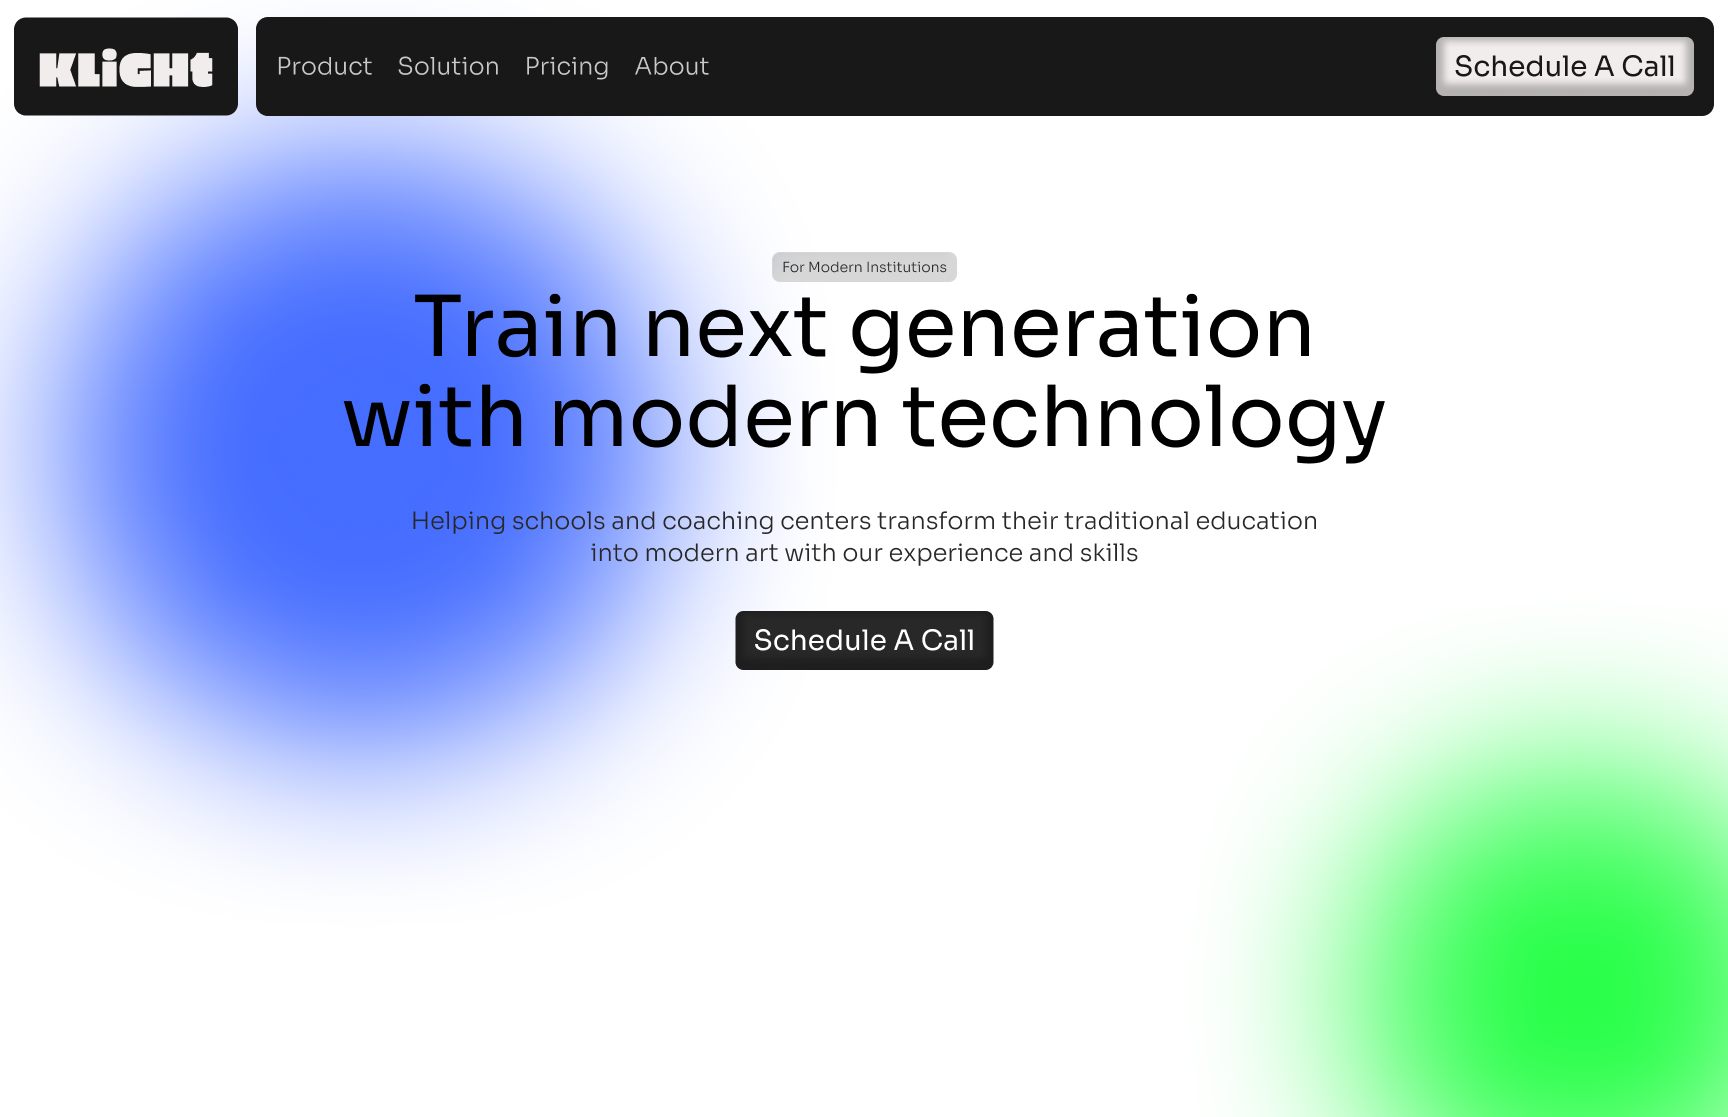
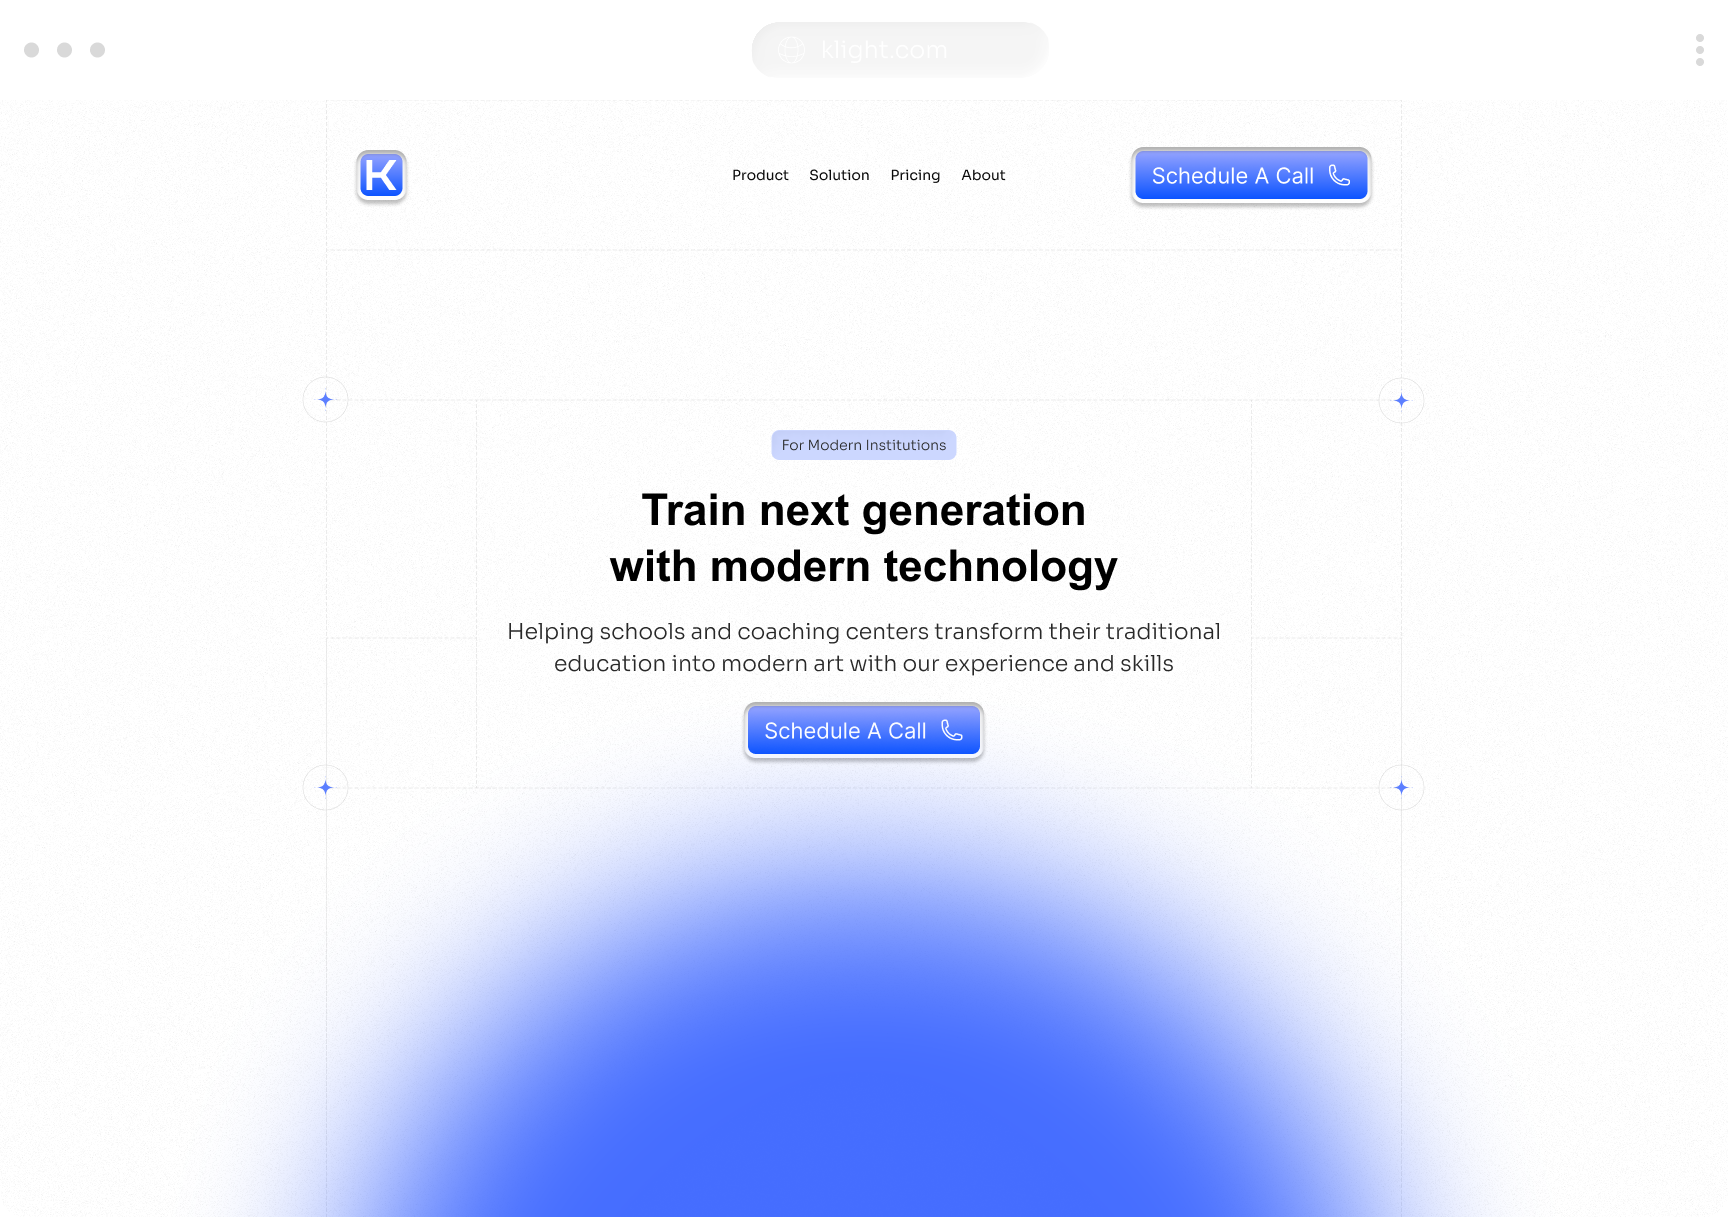
19

diff --git a/app/components/Services2.tsx b/app/components/Services2.tsx
@@ -1,0 +1,103 @@
+"use client";
+
+import React from "react";
+import Image from "next/image";
+
+// ==========================================================================
+// TYPESCRIPT INTERFACES
+// ==========================================================================
+interface ServiceCardProps {
+  children: React.ReactNode; // ReactNode covers elements, strings, numbers, fragments, etc.
+  title: string;
+}
+
+// ==========================================================================
+// REUSABLE SERVICE CARD COMPONENT
+// ==========================================================================
+const ServiceCard = ({ children, title }: ServiceCardProps) => {
+  return (
+    <div className="relative w-full mx-auto max-w-[400px] aspect-[3/4] rounded-[24px] bg-[#303030] flex flex-col items-center justify-between group cursor-pointer border border-[#404040] hover:border-neutral-500 transition-colors duration-300 overflow-hidden px-6 pt-12 pb-10">
+
+      {/* BACKGROUND: DOTTED CIRCLES (ARCS) */}
+      <div className="absolute inset-0 w-full h-full pointer-events-none">
+        <div className="absolute top-[-20%] left-[-20%] w-[100%] h-[100%] rounded-full border-2 border-dashed border-[#505050]"></div>
+        <div className="absolute bottom-[-20%] right-[-20%] w-[100%] h-[100%] rounded-full border-2 border-dashed border-[#505050]"></div>
+      </div>
+
+      {/* CENTRAL ICON CONSTRUCTION */}
+      <div className="relative flex-1 w-full flex items-center justify-center">
+        {/* The 10-sided gear shape background - Rotates on hover */}
+        <div className="relative w-[80%] aspect-square flex items-center justify-center group-hover:rotate-[360deg] transition-transform duration-1000 ease-in-out">
+          <Image 
+            src="/lottie/bigcircle.svg" 
+            alt="Gear background" 
+            fill 
+            className="object-contain"
+          />
+        </div>
+
+        {/* The inner circular icon - Scales on hover */}
+        <div className="absolute w-[50%] aspect-square flex items-center justify-center group-hover:scale-125 transition-transform duration-300 ease-in-out">
+          {children}
+        </div>
+      </div>
+
+      {/* BOTTOM TEXT */}
+      <h4 className="absolute bottom-10 text-3xl font-medium text-white tracking-wide uppercase shrink-0">
+        {title}
+      </h4>
+
+    </div>
+  );
+};
+
+// ==========================================================================
+// SPECIFIC ICONS
+// ==========================================================================
+
+const DesignIcon = () => (
+    <div className="w-[85%] aspect-square flex items-center justify-center rounded-full bg-[#303030] border-2 border-dashed border-gray-500">
+        <Image src="/lottie/design.svg" alt="Design icon" width={60} height={60} className="object-contain" />
+    </div>
+);
+
+const BuildIcon = () => (
+    <div className="w-[85%] aspect-square flex items-center justify-center rounded-full bg-[#303030] border-2 border-dashed border-gray-500">
+        <Image src="/lottie/build.svg" alt="Build code icon" width={60} height={60} className="object-contain" />
+    </div>
+);
+
+const AutomationIcon = () => (
+    <div className="w-[85%] aspect-square flex items-center justify-center rounded-full bg-[#303030] border-2 border-dashed border-gray-500">
+        <Image src="/lottie/automate.svg" alt="Automation node icon" width={60} height={60} className="object-contain" />
+    </div>
+);
+
+// ==========================================================================
+// MAIN SERVICES COMPONENT
+// ==========================================================================
+export default function Services() {
+  return (
+    <div className="w-full h-full flex flex-col px-6 md:px-12 items-center justify-center gap-6 md:gap-12 lg:gap-16">
+
+      <div className="w-full flex items-center justify-center">
+        <h3 className="text-4xl font-bold text-white text-center">Whether you want</h3>
+      </div>
+
+      <div className="w-full max-w-[1300px] mx-auto grid grid-cols-1 md:grid-cols-3 gap-6 lg:gap-8">
+        <ServiceCard title="Design">
+          <DesignIcon />
+        </ServiceCard>
+        
+        <ServiceCard title="Build">
+          <BuildIcon />
+        </ServiceCard>
+
+        <ServiceCard title="Automation">
+          <AutomationIcon />
+        </ServiceCard>
+      </div>
+      
+    </div>
+  );
+}

diff --git a/app/layout.tsx b/app/layout.tsx
@@ -53,8 +53,8 @@ export default function RootLayout({
       <head>
         <link rel="preconnect" href="https://fonts.googleapis.com" />
         <link rel="preconnect" href="https://fonts.gstatic.com" crossOrigin="" />
-        <link href="https://fonts.googleapis.com/css2?family=Jersey+10&family=Space+Grotesk:wght@300..700&display=swap" rel="stylesheet"></link>
-      </head>
+        <link href="https://fonts.googleapis.com/css2?family=Bricolage+Grotesque:opsz,wght@12..96,200..800&family=Google+Sans:ital,opsz,wght@0,17..18,400..700;1,17..18,400..700&display=swap" rel="stylesheet"></link>
+     </head>
       <body className="min-h-full flex flex-col">
         <div className="fixed top-0 w-full border-y border-dashed border-[#343539] z-50">
                 <div className="relative w-auto max-w-[1400px] mx-2 md:mx-2 sm:mx-3 md:mx-4 lg:mx-auto border-x border-dashed border-[#343539]">

diff --git a/app/page.tsx b/app/page.tsx
@@ -4,6 +4,7 @@ import TheProcess from "./components/TheProcess";
 import Footer from "./components/Footer";
 import Services from "./components/Services";
 import FAQs from "./components/FAQs";
+import Services2 from "./components/Services2";
 
 // ==========================================================================
 // REUSABLE ARCHITECTURAL NODE (The 45-degree box)
@@ -91,7 +92,7 @@ export default function Home() {
           <TheProcess />
           
           <div>
-          <Services />
+          <Services2 />
         </div>
 
         <div>

diff --git a/app/globals.css b/app/globals.css
@@ -3,6 +3,7 @@
 @theme {
   /* Injecting the Google Fonts loaded in layout.tsx */
   --font-space: "Space Grotesk", sans-serif;
+  --font-bricolage: "Bricolage Grotesque", sans-serif;
   --font-jersey: "Jersey 10", sans-serif;
 
   /* Global Color Overrides/Extensions if needed */

diff --git a/app/data/work.js b/app/data/work.js
@@ -30,7 +30,7 @@ export const works = [
   {
     id: "05",
     title: "aksh Foundation",
-    pic: "/work/klight.png",
+    pic: "/work/akshfoundation.png",
     tags: ["UI/UX", "Web Design"],
   }
 ]
